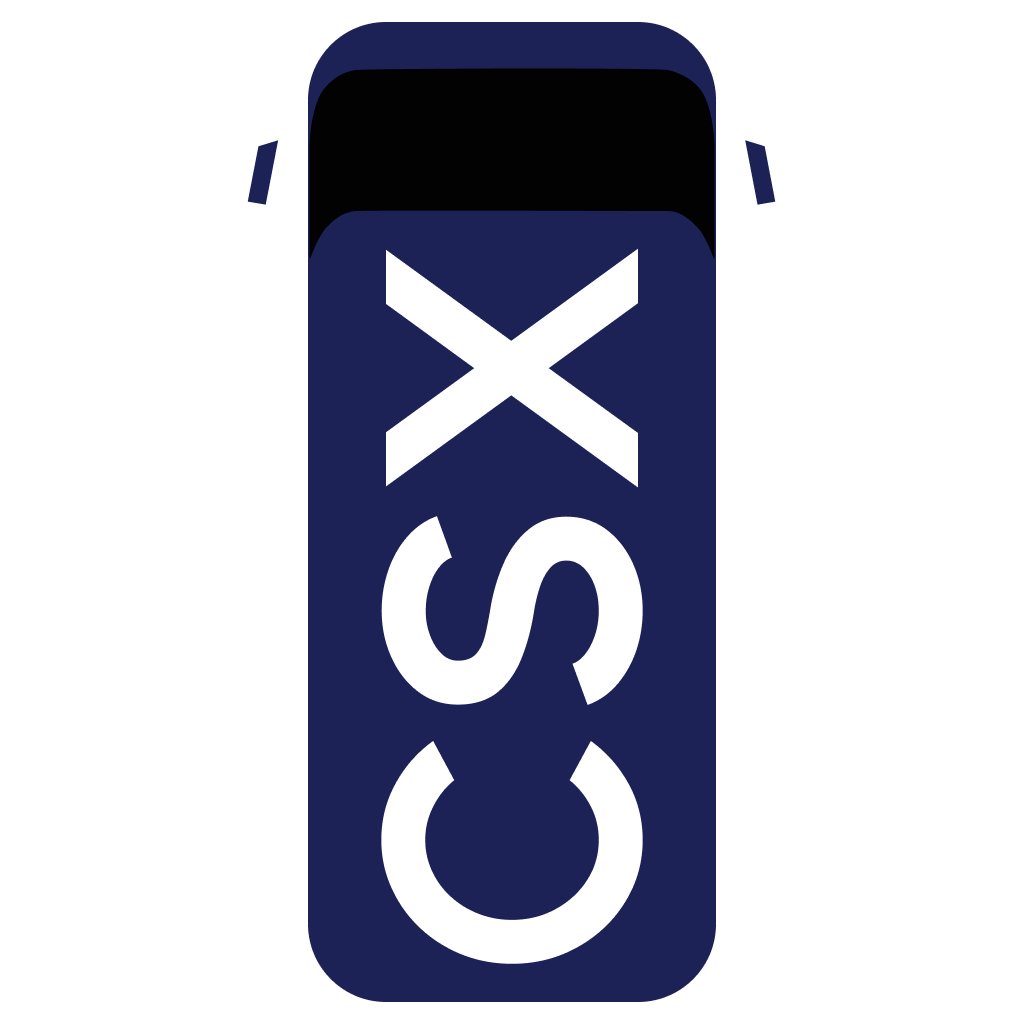
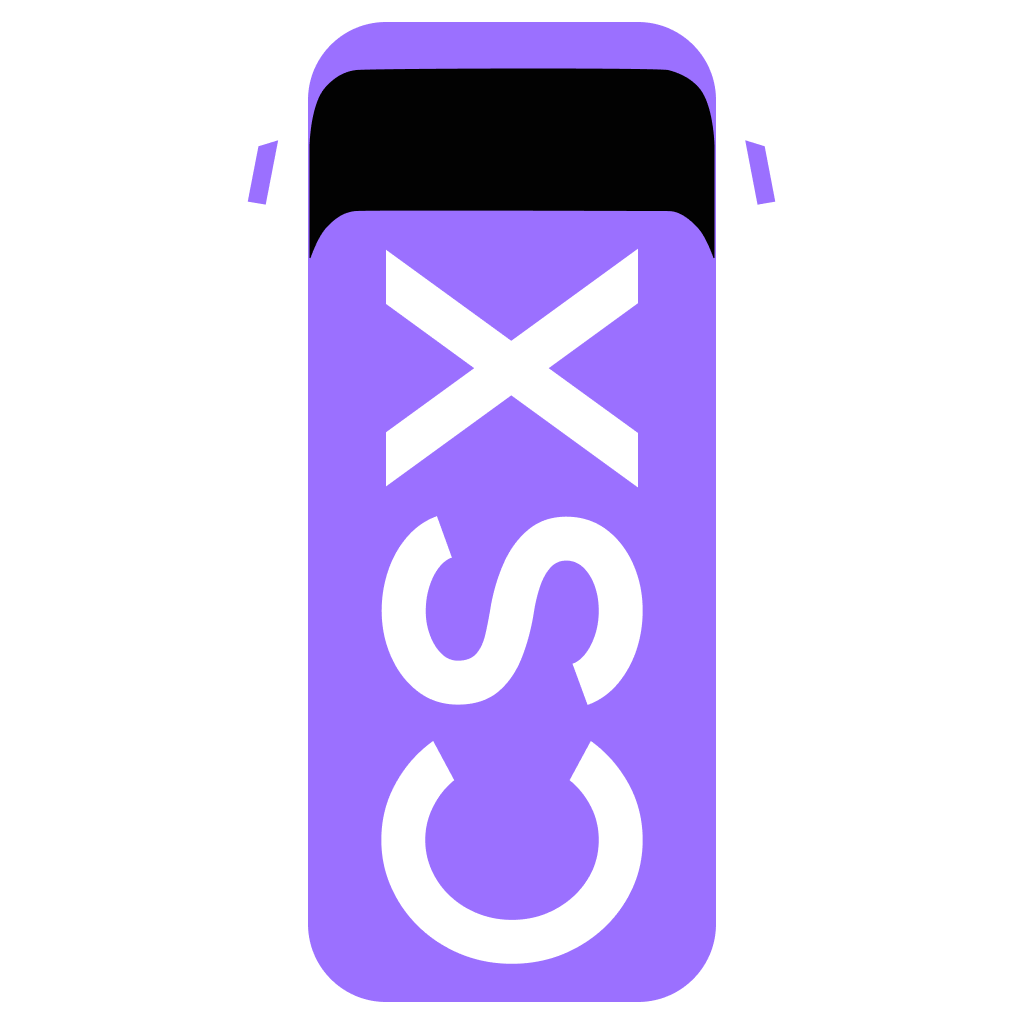
tiny changes for maizebus2

diff --git a/src/services/metadata.ts b/src/services/metadata.ts
@@ -6,7 +6,7 @@ const ROUTE_CONFIG: Record<string, { color: string, image: string }> = {
     "BB": { color: "#2F773F", image: "bus_BB.png" },
     "CN": { color: "#643076", image: "bus_CN.png" },
     "CS": { color: "#3559B8", image: "bus_CS.png" },
-    "CSX": { color: "#1C2256", image: "bus_CSX.png" },
+    "CSX": { color: "#9B70FF", image: "bus_CSX.png" },
     "DD": { color: "#A9C534", image: "bus_DD.png" },
     "MX": { color: "#5EC7DE", image: "bus_MX.png" },
     "NE": { color: "#C55188", image: "bus_NE.png" },

diff --git a/src/routes/api.ts b/src/routes/api.ts
@@ -429,7 +429,7 @@ router.get('/save-graph', saveGraph);
  */
 export function getStartupInfo(req: express.Request, res: express.Response) {
     res.json({
-        min_supported_version: "1.0.0",
+        min_supported_version: "2.0.0",
         why_update_message: { title: "New Update Available", subtitle: "Please update to the latest version." },
         persistant_message: { title: "", subtitle: "" },
         one_time_message: { title: "", subtitle: "" },
